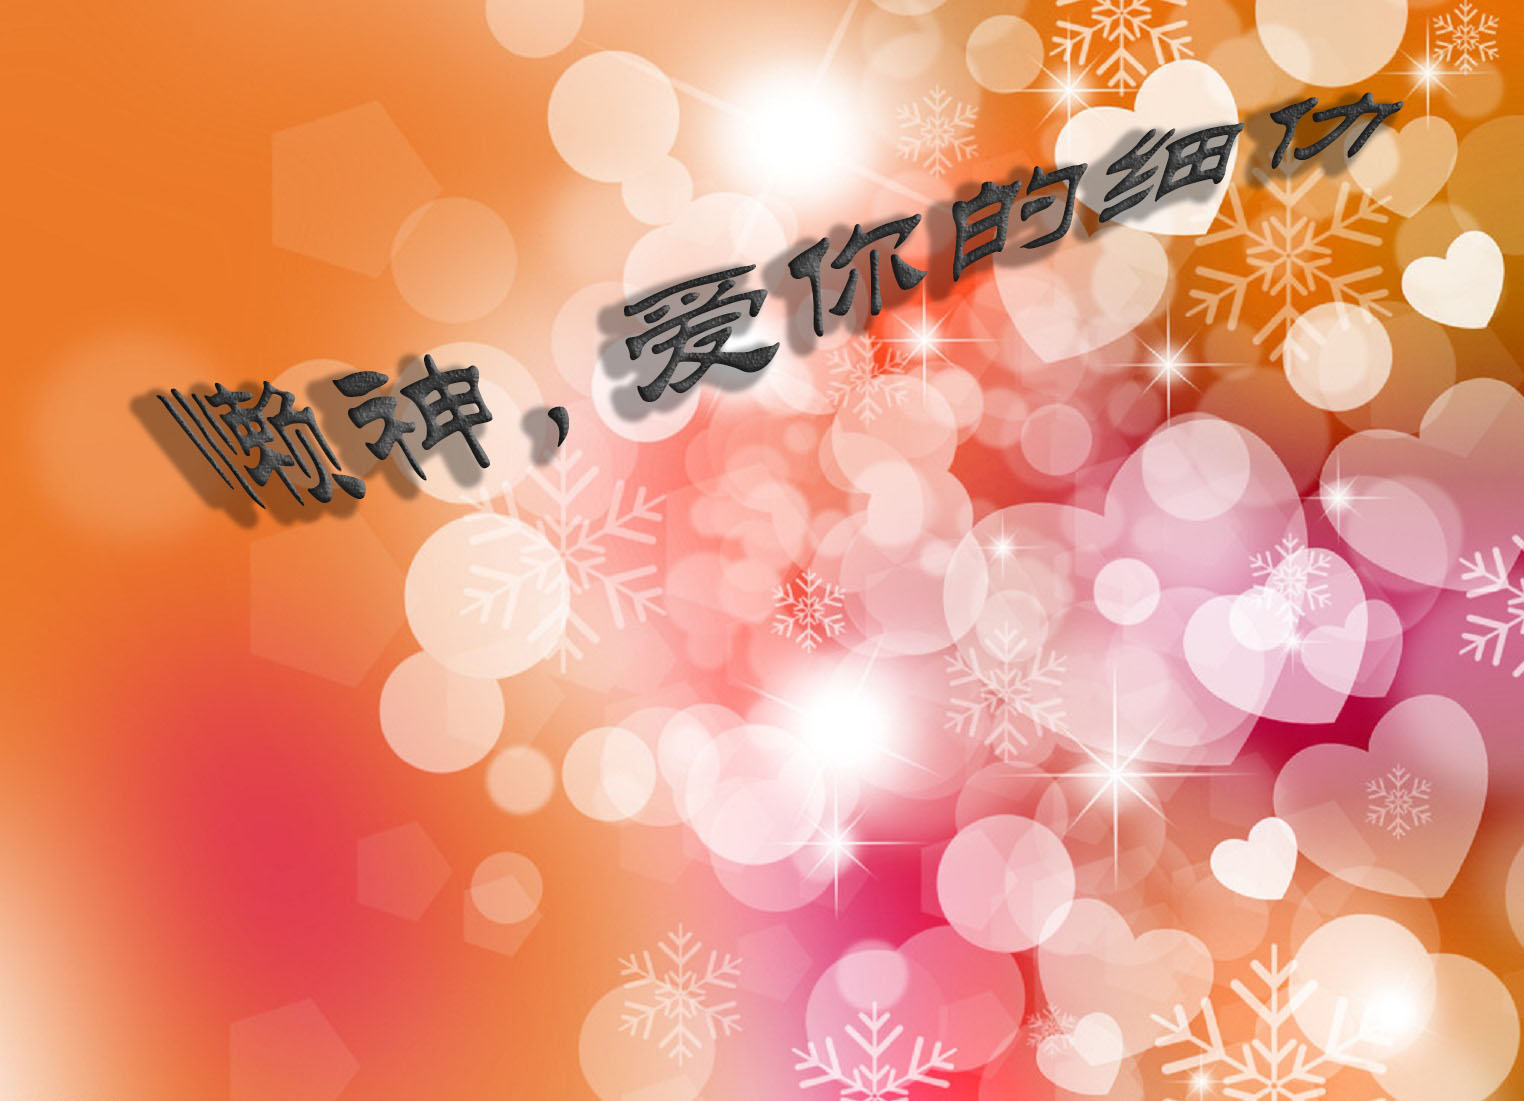
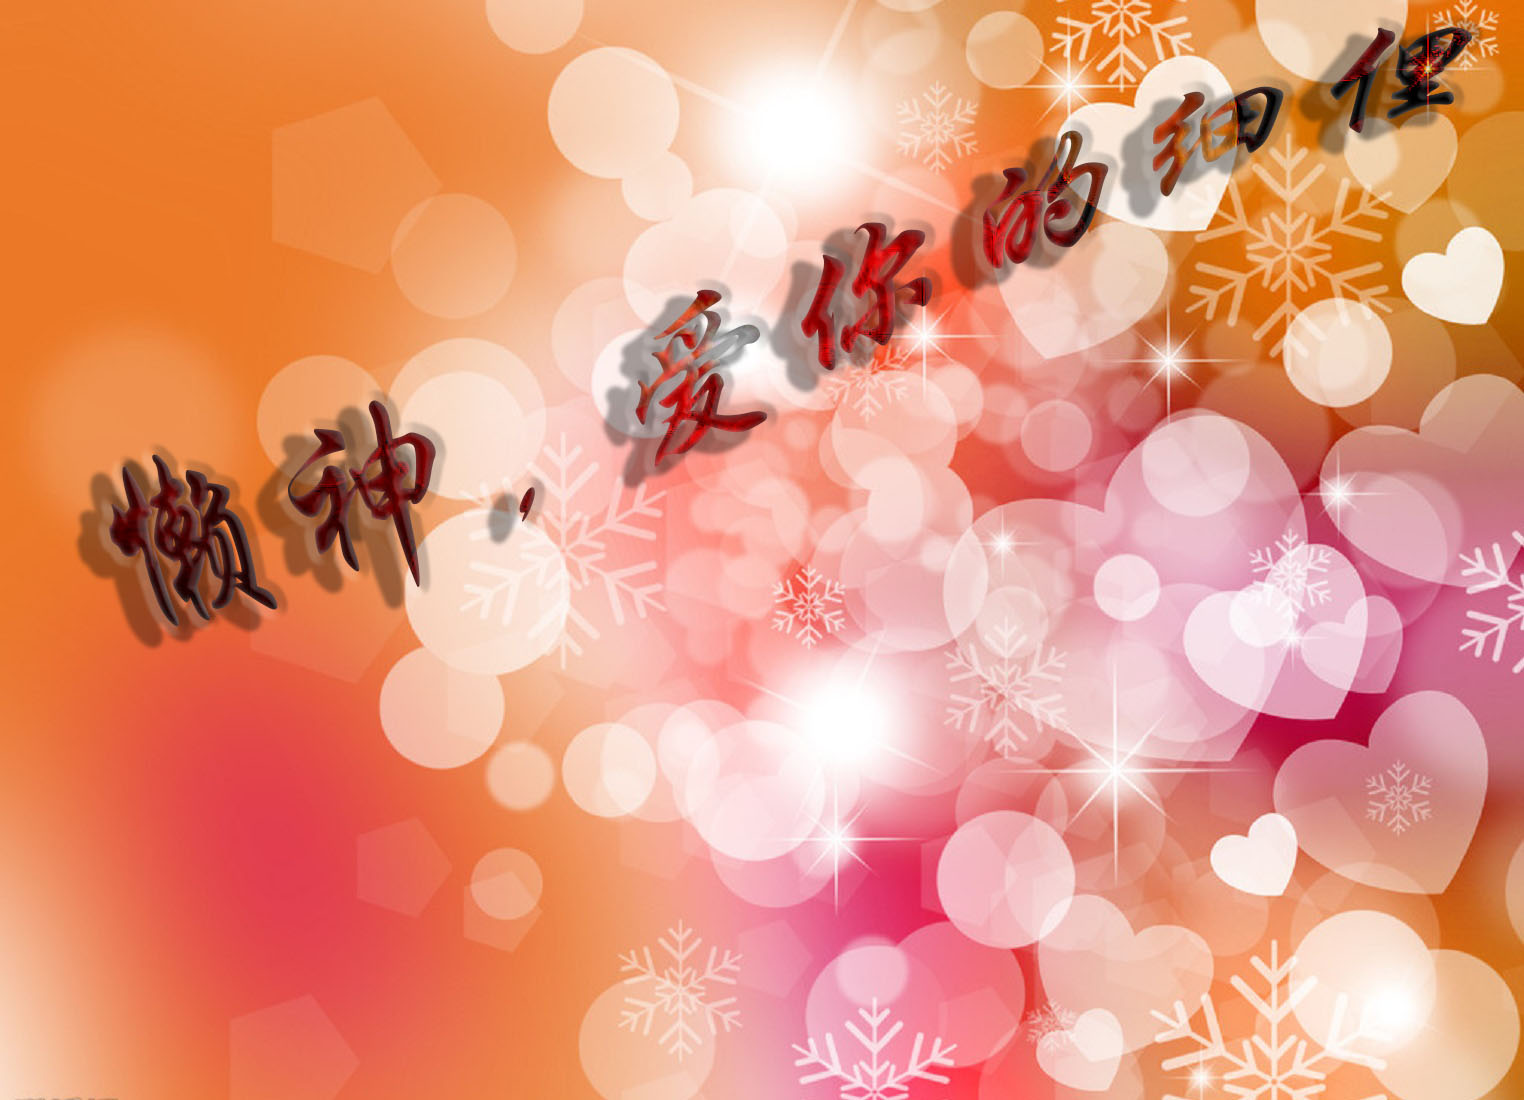
dd
dd

diff --git a/index.html b/index.html
@@ -201,7 +201,7 @@
         爱的宣誓
       </h2>
       <div class="scroll">
-      细仂 &amp; 懒神
+      细俚 &amp; 懒神
       <br />
       我希望在你不开心的时候,能让我知道,
       <br />
@@ -243,7 +243,7 @@
     <div class="relative">
       <div class="scroll">
         <span>
-          细仂 &amp; 懒神
+          细俚 &amp; 懒神
         </span>
         <p>
           &nbsp;&nbsp;&nbsp;&nbsp;懒神你还记得么？
@@ -312,11 +312,11 @@
   <div class="relative">
     <div class="scroll">
       <div style="width:100%;float: left; border-bottom: 1px solid #CCCCCC;">
-        细仂
-        <br/>
+        亲爱的:
+        <!-- <br/>
         <span style="float: right">
           --by
-        </span>
+        </span> -->
       </div>
 
 
@@ -324,7 +324,7 @@
         懒神, 少吃点辣的的,少喝点冷饮, 给自己多一点点的照顾,每天都开开心心的, 每天笑口常开,俗话说: 笑一笑,十年少! 会笑的人最漂亮, 尤其是我家懒神!
         <br/>
         <span style="float: right">
-          --by
+          --by 细俚
         </span>
       </div>
     </div>
@@ -349,7 +349,7 @@
     <div class="scroll">
 		<center>
 			请献上你们的祝福, 在此谢谢各位!<br />
-			细仂: 愿我们走进爱情的最高境界: <br />
+			细俚: 愿我们走进爱情的最高境界: <br />
 			长相知, 不相疑! <br />
 		</center>
     </div>
@@ -395,16 +395,16 @@
     </span>
     <div id="elapseClock" style="margin: 10px 0px 10px 0px;">
     </div>
-    <img src="confression/images/1.gif" />
+    <!-- <img src="confression/images/1.gif" />
     　　　　
-    <img src="confression/images/2.gif" />
+    <img src="confression/images/2.gif" /> -->
     <br/>
     <br/>
     <div id="loveu">
       爱：从2016-2-9 晚 19:30 开始！
       <br/>
       <div class="signature" style="float: right; margin-right: 50px;">
-        by 细仂
+        by 细俚
       </div>
     </div>
   </div>
